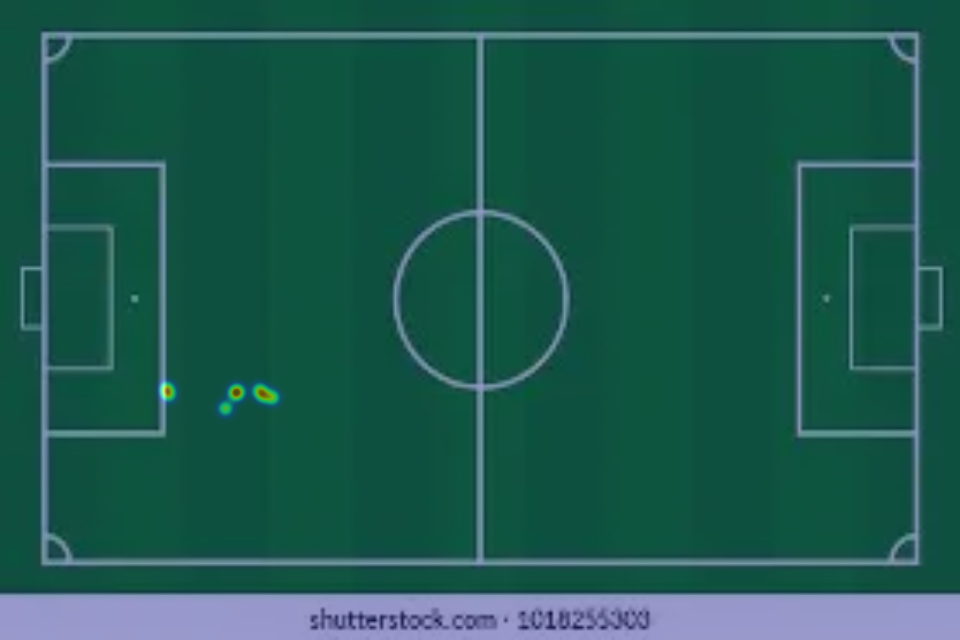
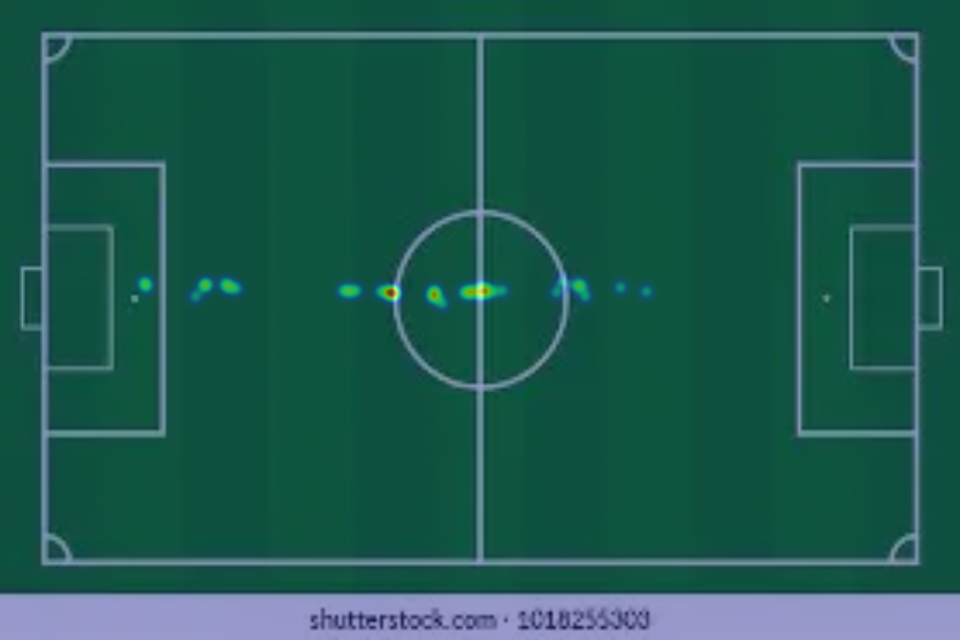
Player HeatMap Updated.

diff --git a/helper/utils.py b/helper/utils.py
@@ -10,7 +10,7 @@ def draw_analytics_panel(frame, lean_angle, touches, gate_speed=None, turn_effic
 
     # Panel position and size
     panel_x1, panel_y1 = 10, 10
-    panel_width, panel_height = 200, 120
+    panel_width, panel_height = 220, 120
     panel_x2 = panel_x1 + panel_width
     panel_y2 = panel_y1 + panel_height
 
@@ -43,3 +43,55 @@ def draw_analytics_panel(frame, lean_angle, touches, gate_speed=None, turn_effic
     cv2.putText(frame, f"Turn Efficiency: {turn_efficiency:.2f} s", (x_text, y_text), cv2.FONT_HERSHEY_SIMPLEX, font_scale, (255, 0, 255), font_thick)
 
     return frame
+
+
+
+
+def draw_player_heatmap(player_positions, stadium_path, output_size=(960, 640) , blur_size=(31, 31), alpha=0.6):
+    """
+    Draws a heatmap of player positions on a stadium image.
+
+    Args:
+        
+        player_positions (list of tuples): List of (x, y) positions of the player on the video frame.
+        stadium_path : The Staduim image Path.
+        output_size : the output image Size.
+        blur_size (tuple): Kernel size for Gaussian blur.
+        alpha (float): Transparency of stadium image overlay.
+
+    Returns:
+        heatmap_overlay (np.array): Stadium image with heatmap overlay.
+    """
+    stadium_img = cv2.imread(stadium_path)
+    if stadium_img is None:
+        raise FileNotFoundError(f"Could not load stadium image from {stadium_path}")
+
+    # Resize stadium
+    stadium_img = cv2.resize(stadium_img, output_size)
+    stadium_h, stadium_w, _ = stadium_img.shape
+   
+    
+
+   
+    heatmap = np.zeros((stadium_h, stadium_w), dtype=np.float32)
+
+    
+    for x, y in player_positions:
+       
+        sx = int(x / stadium_w * stadium_w)
+        sy = int(y / stadium_h * stadium_h)
+        if 0 <= sx < stadium_w and 0 <= sy < stadium_h:
+            heatmap[sy, sx] += 1
+
+   
+    heatmap = cv2.GaussianBlur(heatmap, blur_size, 0)
+
+    
+    heatmap_norm = cv2.normalize(heatmap, None, 0, 255, cv2.NORM_MINMAX).astype(np.uint8)
+
+    
+    heatmap_color = cv2.applyColorMap(heatmap_norm, cv2.COLORMAP_JET)
+
+    heatmap_overlay = cv2.addWeighted(stadium_img, alpha, heatmap_color, 1 - alpha, 0)
+
+    return heatmap_overlay

diff --git a/main.py b/main.py
@@ -6,9 +6,9 @@ import os
 import json
 import mediapipe as mp
 from pipeline import ConeDetection, PlayerAnalysis, SpeedAnalysis
-from helper import draw_analytics_panel
+from helper import draw_analytics_panel , draw_player_heatmap
 
-# --- Paths ---
+
 BASE_DIR = os.getcwd()
 model_path = os.path.join(BASE_DIR, "models", "best.pt")
 video_path = os.path.join(BASE_DIR, "Data", "1_505.mp4")
@@ -19,10 +19,6 @@ if not os.path.exists(video_path):
     
 if not os.path.exists(stadium_path):
     print(f"Error: Could not find stadium image at {stadium_path}")
-
-stadium_img = cv2.imread(stadium_path)
-stadium_img = cv2.resize(stadium_img, (960, 640)) #(Width , height)
-stadium_h, stadium_w, _ = stadium_img.shape
 
 # --- Initialize models ---
 detector = ConeDetection(model_path)
@@ -181,20 +177,7 @@ with open("output\scout_report.json", "w") as f:
 
 print("\n[INFO] Scout report saved to scout_report.json")
 
-
-heatmap = np.zeros((stadium_h, stadium_w), dtype=np.float32)
-for x, y in player_positions:
-    
-    sx = int(x / frame.shape[1] * stadium_w)
-    sy = int(y / frame.shape[0] * stadium_h)
-    if 0 <= sy < stadium_h and 0 <= sx < stadium_w:
-        heatmap[sy, sx] += 1
-
-heatmap = cv2.GaussianBlur(heatmap, (31, 31), 0)
-heatmap_norm = cv2.normalize(heatmap, None, 0, 255, cv2.NORM_MINMAX).astype(np.uint8)
-heatmap_color = cv2.applyColorMap(heatmap_norm, cv2.COLORMAP_JET)
-
-stadium_overlay = cv2.addWeighted(stadium_img, 0.6, heatmap_color, 0.4, 0)
+stadium_overlay=draw_player_heatmap(player_positions, stadium_path, output_size=(960, 640) , blur_size=(31, 31), alpha=0.6)
 cv2.imshow("Player Heatmap on Stadium", stadium_overlay)
 cv2.imwrite("output\player_stadium_heatmap.png", stadium_overlay)
 cv2.waitKey(0)

diff --git a/helper/__init__.py b/helper/__init__.py
@@ -1,1 +1,1 @@
-from .utils import draw_analytics_panel
+from .utils import draw_analytics_panel , draw_player_heatmap
